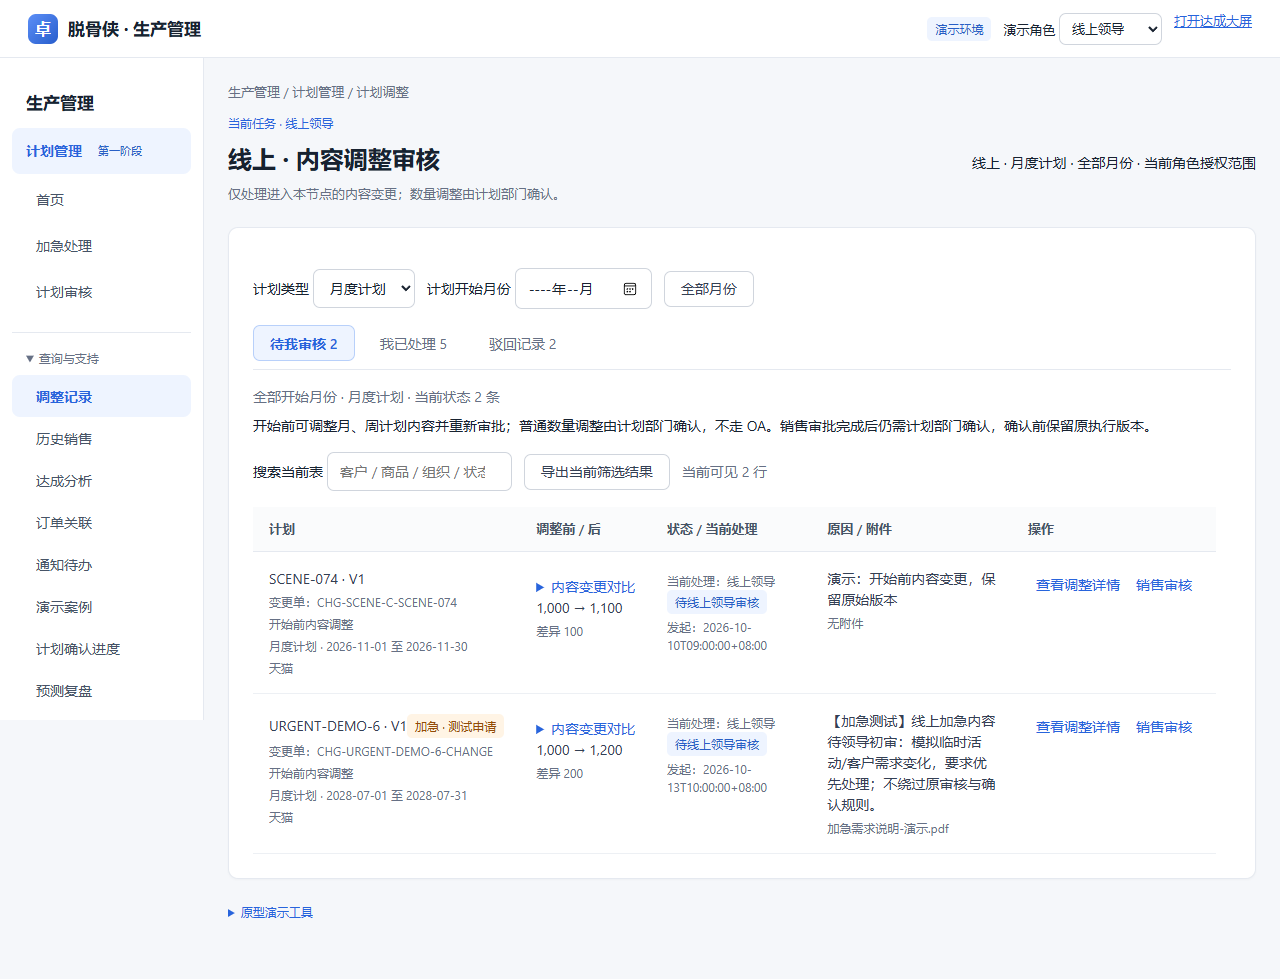
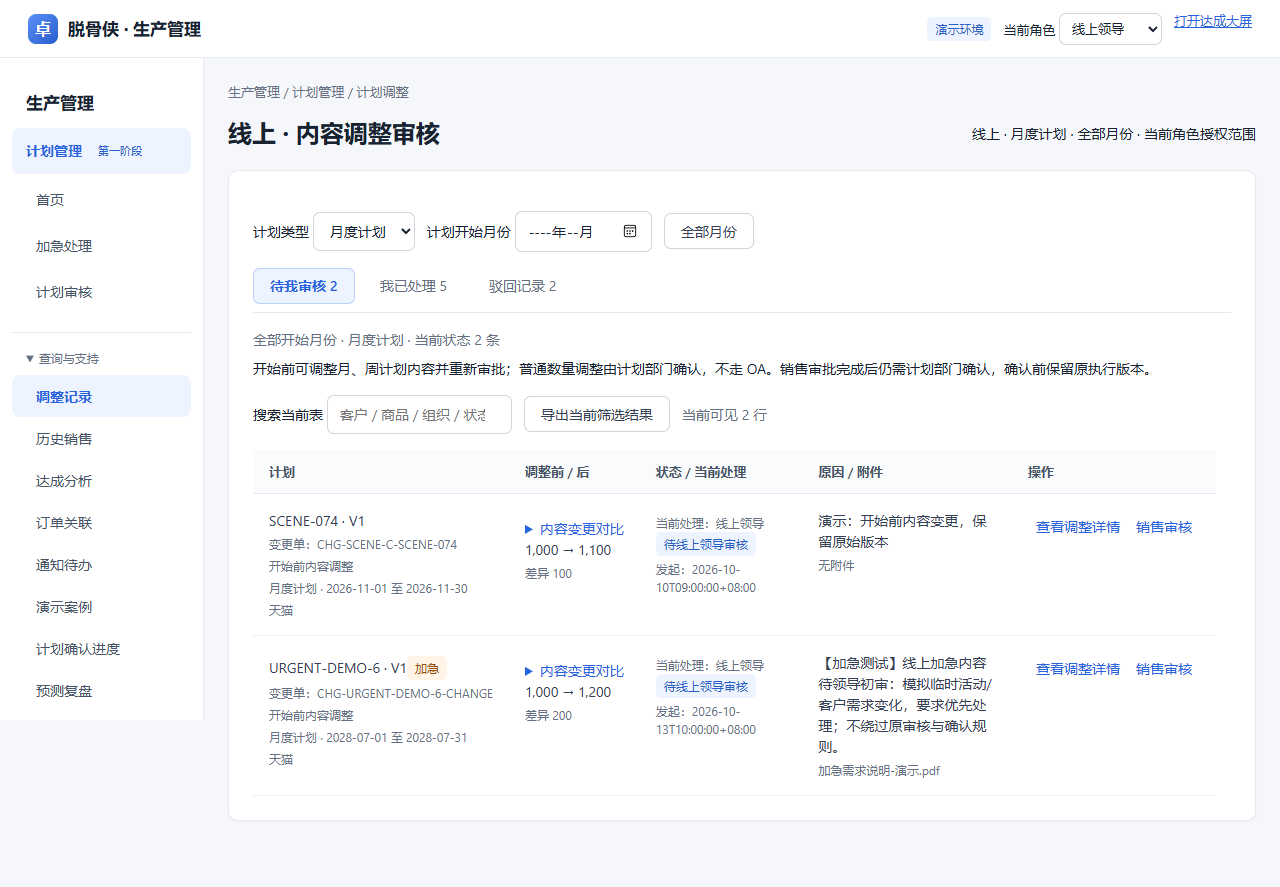
Auto sync 2026-10-14 09:54:12

diff --git a/09-设计与原型/销售计划管理/计划操作补充.js b/09-设计与原型/销售计划管理/计划操作补充.js
@@ -7,9 +7,13 @@
  return '<p class="muted reference-summary">参考区间：'+E(range.from||'未选择')+' 至 '+E(range.to||'未选择')+' · 历史有效销量：'+(qty===null?'待同步 / 待确认':N(qty)+' '+E(line.unit))+' · 日均销量：'+(avg===null?'待确认':N(avg)+' '+E(line.unit)+'/天')+' · 同周期天数参考量：'+(estimate===null?'待确认':N(estimate)+' '+E(line.unit))+' · 计划偏差：'+(delta===null?'—':N(delta)+'%')+'<br>'+E(simulated?'纯模拟走势不作为正式参考，不引用或回写。':trust(d,b,range.from,range.to))+'<br>参考量按历史日均 × 本次计划天数估算，仅供判断，不自动改变计划；省区辅助参考不代表该客户销量。</p>';
  }
  function csv(table){const data=[...table.querySelectorAll(':scope > thead > tr,:scope > tbody > tr')].filter(tr=>!tr.hidden&&tr.style.display!=='none').map(tr=>[...tr.children].map(td=>td.innerText.trim()));if(!data.length)return '';return '\ufeff'+data.map(row=>row.map(value=>{const safe=/^[\s]*[=+\-@]/.test(value)?"'"+value:value;return '"'+safe.replace(/"/g,'""')+'"';}).join(',')).join('\r\n');}
- function tools(root,a){root.querySelectorAll('table').forEach((table,index)=>{if(table.parentElement.closest('table')||table.dataset.scopeTools||!table.querySelector('tbody')||!table.querySelector('thead'))return;table.dataset.scopeTools='true';const bar=document.createElement('div');bar.className='row';bar.innerHTML='<label>搜索当前表 <input type="search" aria-label="搜索当前表 '+(index+1)+'" placeholder="客户 / 商品 / 组织 / 状态"></label><button type="button">导出当前筛选结果</button><span class="muted" role="status"></span>';const wrap=table.closest('.table-wrap')||table;wrap.before(bar);const input=bar.querySelector('input'),status=bar.querySelector('span');let last='';const paint=()=>{const q=input.value.trim().toLocaleLowerCase(),rows=[...table.querySelectorAll(':scope > tbody > tr')];rows.forEach(tr=>{const display=q&&!tr.textContent.toLocaleLowerCase().includes(q)?'none':'';if(tr.style.display!==display)tr.style.display=display;if(display==='none'){tr.querySelectorAll('input[type=checkbox]:checked').forEach(box=>{box.checked=false;box.dispatchEvent(new Event('change',{bubbles:true}));});}});const text='当前可见 '+rows.filter(tr=>!tr.hidden&&tr.style.display!=='none'&&!tr.querySelector('.empty')).length+' 行'+(q?' · 无结果时请清除搜索':'');if(last!==text){status.textContent=text;last=text;}};input.oninput=paint;bar.parentElement.addEventListener('change',()=>queueMicrotask(paint));bar.querySelector('button').onclick=()=>{const value=csv(table);if(!value||![...table.querySelectorAll('tbody tr')].some(tr=>!tr.hidden&&tr.style.display!=='none'&&!tr.querySelector('.empty')))return a.message('当前筛选没有可导出的数据。请清除搜索或调整筛选。');const url=URL.createObjectURL(new Blob([value],{type:'text/csv;charset=utf-8'})),link=document.createElement('a');link.href=url;link.download='销售计划-'+a.role()+'-'+a.view()+'-当前筛选.csv';link.click();setTimeout(()=>URL.revokeObjectURL(url),1000);};const observer=new MutationObserver(paint);observer.observe(table.querySelector('tbody'),{childList:true,subtree:true,attributes:true,attributeFilter:['hidden']});paint();});}
+ function presentation(root){
+ document.querySelectorAll("main > .notice,.phase-banner,.role-demo-tools,.task-context p,.task-eyebrow,#content > p.muted").forEach(el=>el.classList.add("system-helper-hidden"));
+ root.querySelectorAll("p,.notice").forEach(el=>{if(el.closest("td,th,.history,.task-evidence")||el.matches(".error,[role=alert],.empty,.reference-summary")||el.querySelector("input,select,button"))return;const t=el.textContent.trim();if(/^(交互演示数据|纯模拟|推荐演示|先选一条申请|先选择原计划，再填写|月计划、周计划在执行开始前|数量调整由计划部门确认，不提交|月度窗口：|汇集线上、线下需求计划|计划数量为本周期预计|销售计划是需求依据|商品种数去重|统计所选月份|统计开始日期在所选月份)/.test(t)||(/演示|原型/.test(t)&&/不覆盖|不修改|未接入|用于|自动定位|样例|真实接口/.test(t)))el.classList.add("system-helper-hidden");});
+ }
+ function tools(root,a){presentation(root);root.querySelectorAll('table').forEach((table,index)=>{if(table.parentElement.closest('table')||table.dataset.scopeTools||!table.querySelector('tbody')||!table.querySelector('thead'))return;table.dataset.scopeTools='true';const bar=document.createElement('div');bar.className='row';bar.innerHTML='<label>搜索当前表 <input type="search" aria-label="搜索当前表 '+(index+1)+'" placeholder="客户 / 商品 / 组织 / 状态"></label><button type="button">导出当前筛选结果</button><span class="muted" role="status"></span>';const wrap=table.closest('.table-wrap')||table;wrap.before(bar);const input=bar.querySelector('input'),status=bar.querySelector('span');let last='';const paint=()=>{const q=input.value.trim().toLocaleLowerCase(),rows=[...table.querySelectorAll(':scope > tbody > tr')];rows.forEach(tr=>{const display=q&&!tr.textContent.toLocaleLowerCase().includes(q)?'none':'';if(tr.style.display!==display)tr.style.display=display;if(display==='none'){tr.querySelectorAll('input[type=checkbox]:checked').forEach(box=>{box.checked=false;box.dispatchEvent(new Event('change',{bubbles:true}));});}});const text='当前可见 '+rows.filter(tr=>!tr.hidden&&tr.style.display!=='none'&&!tr.querySelector('.empty')).length+' 行'+(q?' · 无结果时请清除搜索':'');if(last!==text){status.textContent=text;last=text;}};input.oninput=paint;bar.parentElement.addEventListener('change',()=>queueMicrotask(paint));bar.querySelector('button').onclick=()=>{const value=csv(table);if(!value||![...table.querySelectorAll('tbody tr')].some(tr=>!tr.hidden&&tr.style.display!=='none'&&!tr.querySelector('.empty')))return a.message('当前筛选没有可导出的数据。请清除搜索或调整筛选。');const url=URL.createObjectURL(new Blob([value],{type:'text/csv;charset=utf-8'})),link=document.createElement('a');link.href=url;link.download='销售计划-'+a.role()+'-'+a.view()+'-当前筛选.csv';link.click();setTimeout(()=>URL.revokeObjectURL(url),1000);};const observer=new MutationObserver(paint);observer.observe(table.querySelector('tbody'),{childList:true,subtree:true,attributes:true,attributeFilter:['hidden']});paint();});}
  function progress(d,p){const route=SalesPlan.chain(p),current=p.rejected?'销售修改后重新提交':SalesPlan.effective(p)?'已确认生效':p.stage<0?'销售填报':route[p.stage]||'计划部门确认',reject=(p.history||[]).filter(h=>/驳回/.test(h.action)).at(-1);return '<section class="plan-process"><h3>流程进度与修改指引</h3><p>流转路径：'+E((p.business==='online'?['线上运营']:['省区填报']).concat(route,['计划部门确认']).join(' → '))+'</p><p>当前处理：'+E(current)+' · 当前执行版本：V'+E(p.version)+'</p>'+(reject?'<p>最近退回：'+E(reject.by)+' · '+E(reject.at)+'<br>修改要求：'+E(reject.opinion||'历史记录缺少意见，请联系退回人核实')+'<br>请按要求修改对应明细；重新整单提交后从首级审核，历史审批与修改前后记录保留。</p>':'')+(p.history||[]).filter(h=>h.beforeContent&&h.afterContent).map(h=>'<details><summary>'+E(h.at+' · '+h.by+' · '+h.action+' · V'+h.version)+'</summary><div class="table-wrap"><table><thead><tr><th>修改字段</th><th>修改前</th><th>修改后</th></tr></thead><tbody>'+PlanChange.diff(h,d)+'</tbody></table></div></details>').join('')+'<p class="muted">'+E(basis)+'<br>'+E(boundary)+'<br>'+E(trust(d,p.business,p.start,p.end))+'</p></section>';}
  let pageObserver;
  function decorate(a){pageObserver?.disconnect();if(document.body.dataset.page==='screen')return;if(['home','plans','review','acceptance','adjustments','demand'].includes(a.view())){const root=document.getElementById('content');tools(root,a);pageObserver=new MutationObserver(()=>tools(root,a));pageObserver.observe(root,{childList:true,subtree:true});if(['home','plans','acceptance'].includes(a.view())){const note=document.createElement('p');note.className='muted';note.textContent=basis+' '+boundary;root.append(note);}if(['home','plans','review','acceptance'].includes(a.view())){const f={...a.filters()};if(a.view()==='home'){f.business=document.getElementById('homeBusiness')?.value||(['线上运营','线上领导','丹总'].includes(a.role())?'online':'offline');f.kind=document.querySelector('[data-home-kind][aria-pressed=true]')?.dataset.homeKind||f.kind;f.cycle=document.getElementById('homeMonth')?.value||f.cycle;if(f.kind==='week'){const first=new Date(f.cycle+'-01T12:00:00Z');first.setUTCDate(first.getUTCDate()+((8-first.getUTCDay())%7));f.cycle=first.toISOString().slice(0,10);}}const note=document.createElement('p');note.className='muted';note.dataset.trust='true';let from=f.kind==='month'?f.cycle+'-01':f.cycle,to=f.kind==='month'?new Date(Number(f.cycle.slice(0,4)),Number(f.cycle.slice(5,7)),0).toLocaleDateString('sv-SE'):new Date(Date.parse(f.cycle)+6*86400000).toISOString().slice(0,10);if(a.view()==='home'){const month=document.getElementById('homeMonth')?.value,plans=a.data().plans.filter(p=>!p.archived&&!p.achievementDemo&&p.business===f.business&&p.kind===f.kind&&p.start.slice(0,7)===month&&PlanBusiness.canView(a.data(),a.role(),p));if(plans.length){from=plans.map(p=>p.start).sort()[0];to=plans.map(p=>p.end).sort().at(-1);}}note.textContent=trust(a.data(),f.business,from,to);root.append(note);}}}
- window.PlanOperations={basis,boundary,trust,reference,csv,tools,progress,decorate};
+ window.PlanOperations={presentation,basis,boundary,trust,reference,csv,tools,progress,decorate};
 })();

diff --git a/09-设计与原型/销售计划管理/销售计划管理.js b/09-设计与原型/销售计划管理/销售计划管理.js
@@ -25,7 +25,7 @@
     if(!screen&&role==='省区填报'&&!['salesHistory','monthRecap'].includes(view)){filters.business='offline';const fixed=PlanBusiness.affiliation(role);filters.center=fixed.center;filters.area=fixed.area;if(filters.province!=='all'&&!M.areas[fixed.area].includes(filters.province))filters.province='上海';if(filters.province==='all')filters.province='上海';}
     if(!screen&&role==='线上运营'&&!['salesHistory','monthRecap'].includes(view)){filters.business='online';filters.center='all';filters.area='all';filters.province='all';}
 
-    document.getElementById('root').innerHTML=`<header><div><strong>脱骨侠 · ${screen?'生产管理 · 计划达成分析':'生产管理'}</strong><div class="muted">第一阶段 · 计划管理 · 需求计划填报</div></div><div class="row">${!screen?`<label>演示角色 <select id="role">${options(['省区填报','线上运营','大区审核','中心审核','严总','线上领导','丹总','计划部门','商品管理员','规则管理员'],role)}</select></label>`:''}<a href="${screen?'14-销售仓库协同数字驾驶舱.html':'15-销售仓库协同可视化大屏.html'}">${screen?'返回计划管理':'打开达成大屏'}</a></div></header><main><div class="notice">交互演示数据 · OMS、旺店通及 OA 未接入真实系统。${!d.orderPolicies.offline.version||!d.orderPolicies.online.version?'销量统计口径待确认，正式达成率暂不计算。':''}</div>${!screen?`<nav aria-label="生产管理导航"><div class="module-parent">生产管理</div><div class="module-current">计划管理 <span class="tag">第一阶段</span></div><div class="module-group">计划业务</div><button data-plan-kind="month" aria-current="${view==='plans'&&filters.kind==='month'}">月度计划</button><button data-plan-kind="week" aria-current="${view==='plans'&&filters.kind==='week'}">周计划</button>${[['review','分级审核'],['adjustments','计划调整'],['products','可填报商品'],['orders','订单关联'],['analysis','达成分析'],['rules','填报规则']].map(([k,t])=>`${k==='products'?'<div class="module-group">计划支撑</div>':''}<button data-view="${k}" aria-current="${view===k}">${t}</button>`).join('')}</nav>`:''}<div class="breadcrumb" aria-label="当前位置">生产管理 / 计划管理 / ${({plans:filters.kind==='month'?'月度计划':'周计划',review:'分级审核',adjustments:'计划调整',products:'可填报商品',orders:'订单关联',analysis:'达成分析',rules:'填报规则',demand:'已确认需求总表',progress:'填报进度',notifications:'通知与待办',businessRules:'业务规则与权限',salesHistory:'历史销售查询',monthRecap:'月周预测复盘',acceptance:'需求承接',urgentDemo:'加急处理演示',demoStates:'全流程演示案例'})[view]}</div><div class="phase-banner"><strong>第一阶段 · 计划管理</strong><span>填报需求计划 → 审核确认 → 调整执行 → 计划跟踪</span></div><div id="content">${['plans','review','analysis'].includes(view)?filterBar():''}${content()}</div></main><dialog id="dialog" aria-labelledby="dialogTitle"></dialog><div id="message" role="status" aria-live="polite"></div>`;
+    document.getElementById('root').innerHTML=`<header><div><strong>脱骨侠 · ${screen?'生产管理 · 计划达成分析':'生产管理'}</strong><div class="muted">第一阶段 · 计划管理 · 需求计划填报</div></div><div class="row">${!screen?`<label>当前角色 <select id="role">${options(['省区填报','线上运营','大区审核','中心审核','严总','线上领导','丹总','计划部门','商品管理员','规则管理员'],role)}</select></label>`:''}<a href="${screen?'14-销售仓库协同数字驾驶舱.html':'15-销售仓库协同可视化大屏.html'}">${screen?'返回计划管理':'打开达成大屏'}</a></div></header><main><div class="notice">交互演示数据 · OMS、旺店通及 OA 未接入真实系统。${!d.orderPolicies.offline.version||!d.orderPolicies.online.version?'销量统计口径待确认，正式达成率暂不计算。':''}</div>${!screen?`<nav aria-label="生产管理导航"><div class="module-parent">生产管理</div><div class="module-current">计划管理 <span class="tag">第一阶段</span></div><div class="module-group">计划业务</div><button data-plan-kind="month" aria-current="${view==='plans'&&filters.kind==='month'}">月度计划</button><button data-plan-kind="week" aria-current="${view==='plans'&&filters.kind==='week'}">周计划</button>${[['review','分级审核'],['adjustments','计划调整'],['products','可填报商品'],['orders','订单关联'],['analysis','达成分析'],['rules','填报规则']].map(([k,t])=>`${k==='products'?'<div class="module-group">计划支撑</div>':''}<button data-view="${k}" aria-current="${view===k}">${t}</button>`).join('')}</nav>`:''}<div class="breadcrumb" aria-label="当前位置">生产管理 / 计划管理 / ${({plans:filters.kind==='month'?'月度计划':'周计划',review:'分级审核',adjustments:'计划调整',products:'可填报商品',orders:'订单关联',analysis:'达成分析',rules:'填报规则',demand:'已确认需求总表',progress:'填报进度',notifications:'通知与待办',businessRules:'业务规则与权限',salesHistory:'历史销售查询',monthRecap:'月周预测复盘',acceptance:'需求承接',urgentDemo:'加急申请与处理',demoStates:'全流程演示案例'})[view]}</div><div class="phase-banner"><strong>第一阶段 · 计划管理</strong><span>填报需求计划 → 审核确认 → 调整执行 → 计划跟踪</span></div><div id="content">${['plans','review','analysis'].includes(view)?filterBar():''}${content()}</div></main><dialog id="dialog" aria-labelledby="dialogTitle"></dialog><div id="message" role="status" aria-live="polite"></div>`;
     document.querySelectorAll('[data-plan-kind]').forEach(b=>b.onclick=()=>{const kind=b.dataset.planKind;try{localStorage.setItem('tgx_plan_filters_'+filters.kind,JSON.stringify(filters));const saved=JSON.parse(localStorage.getItem('tgx_plan_filters_'+kind));filters=saved||{business:'all',kind,center:'all',area:'all',province:'all',channel:'all',unit:'袋',cycle:kind==='month'?'2026-10':'2026-10-12'};filters.kind=kind;localStorage.setItem('tgx_plan_filters',JSON.stringify(filters));}catch{filters.kind=kind;filters.cycle=kind==='month'?'2026-10':'2026-10-12';}view='plans';render();});
     document.querySelectorAll('[data-view]').forEach(b=>b.onclick=()=>{view=b.dataset.view;render();});
     document.getElementById('role')?.addEventListener('change',e=>{role=e.target.value;taskStatus='all';filters.center='all';filters.area='all';filters.province='all';filters.channel='all';filters.business=role==='线上运营'||SalesPlan.onlineReviewer(role)?'online':'offline';view=view==='home'?'home':['大区审核','中心审核','严总','线上领导','丹总'].includes(role)?'review':role==='计划部门'?'acceptance':role==='商品管理员'?'products':role==='规则管理员'?'rules':'plans';render();});

diff --git a/09-设计与原型/销售计划管理/销售计划管理.css b/09-设计与原型/销售计划管理/销售计划管理.css
@@ -88,3 +88,6 @@ body:not(.screen) header{height:auto;min-height:58px}#salesPerson{max-width:360p
 .returned-review-table td:nth-child(3){min-width:240px}
 .adjust-record-table>tbody>tr>td:nth-child(3){white-space:normal;min-width:160px;max-width:240px;overflow-wrap:anywhere}
 .adjust-record-table>tbody>tr>td:nth-child(4){white-space:normal;min-width:200px;max-width:300px;overflow-wrap:anywhere}
+/* 正式系统视图：隐藏说明性辅助文案，保留错误、状态、业务证据和操作反馈。 */
+.system-helper-hidden,.task-context>div>p,.task-eyebrow,.phase-banner,.role-demo-tools,#content>[data-trust]{display:none!important}
+
